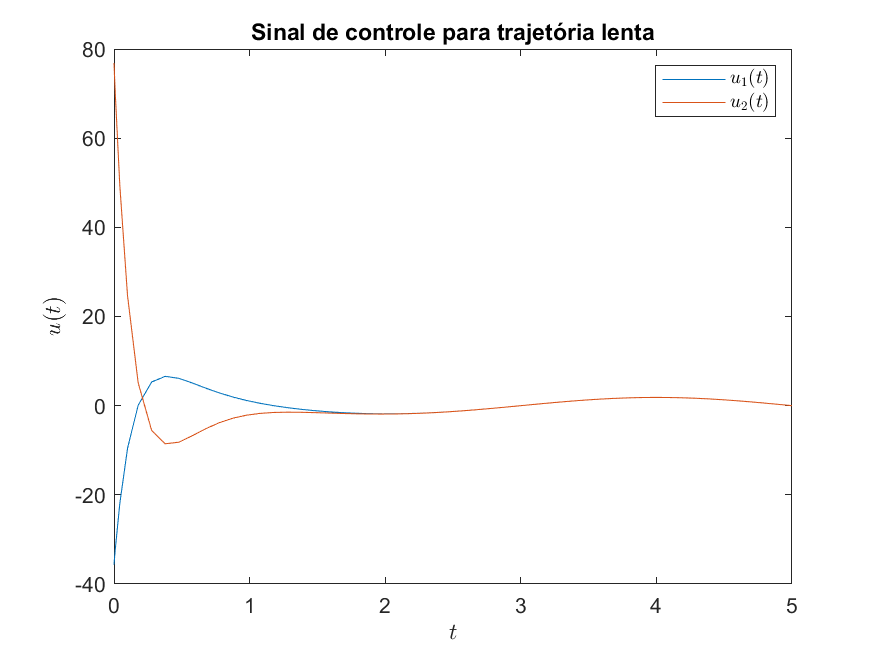
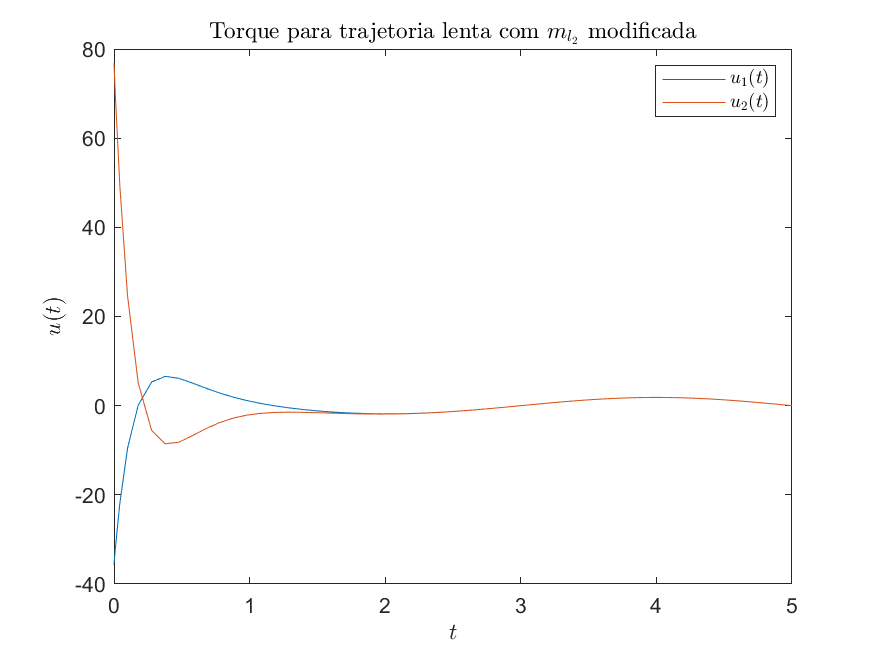
finished projeto-4

Changed region(s): [[0.2469, 0.0305, 0.8023, 0.061]]

diff --git a/projetos/projeto-4/ppi-ctrl/script_ppi.m b/projetos/projeto-4/ppi-ctrl/script_ppi.m
@@ -37,7 +37,7 @@ b22 = Il2 + ml2^2 + Kr2^2*Im2;
 
 M_ = [
     b11 0;
-    0   b22];
+    0   b22]
 
 
 
@@ -63,7 +63,7 @@ for traj_switch = 0:1
     plot(out.q)
     hold on
     plot(out.qd)
-    title("Comparação de posição para trajetória "+traj(traj_switch+1),"Interpreter","latex")
+    title("Comparacao de posicao para trajetoria "+traj(traj_switch+1),"Interpreter","latex")
     xlabel("$t$","Interpreter","latex")
     ylabel("$\theta(t)$","Interpreter","latex")
     legend({'$\theta$','$\theta_d$'},"Interpreter","latex")
@@ -73,18 +73,67 @@ for traj_switch = 0:1
     plot(out.qdot)
     hold on
     plot(out.qddot)
-    title("Comparação de velocidade para trajetória "+traj(traj_switch+1),"Interpreter","latex")
+    title("Comparacao de velocidade para trajetoria "+traj(traj_switch+1),"Interpreter","latex")
     xlabel("$t$","Interpreter","latex")
     ylabel("$\theta(t)$","Interpreter","latex")
     legend({'$\dot\theta$','$\dot\theta_d$'},"Interpreter","latex")
     saveas(gcf,"imgs/ppi_q_qd_"+traj(traj_switch+1)+".png");
 
-    % Control
+    % Torque
     figure
     plot(out.u)
-    title("Sinal de controle para trajetória "+traj(traj_switch+1),"Interpreter","latex")
+    title("Torque para trajetoria "+traj(traj_switch+1),"Interpreter","latex")
     xlabel("$t$","Interpreter","latex")
     ylabel("$u(t)$","Interpreter","latex")
     legend({'$u_1(t)$','$u_2(t)$'},"Interpreter","latex")
     saveas(gcf,"imgs/ppi_u_"+traj(traj_switch+1)+".png");
+end
+
+%% Plots mod ml2
+
+ml2 = 60; %kg
+
+% M_ matriz
+b11 = Il1 + ml1*l1^2+(Kr1^2)*Im1 + Il2 + ml2*(a1^2+l2^2) + Im2 + mm2*a1^2;
+b12 = Il2 + ml2*l2^2 + Kr2*Im2;
+b21 = b12;
+b22 = Il2 + ml2^2 + Kr2^2*Im2;
+
+M_ = [
+    b11 0;
+    0   b22]
+
+for traj_switch = 0:1
+    out = sim('ppi_ctrl.slx',5);
+
+    % Position
+    figure
+    subplot(2,1,1)
+    plot(out.q)
+    hold on
+    plot(out.qd)
+    title({"Comparacao de posicao para trajetoria "+traj(traj_switch+1)+" com $ m_{l_2} $ modificada"},"Interpreter","latex")
+    xlabel("$t$","Interpreter","latex")
+    ylabel("$\theta(t)$","Interpreter","latex")
+    legend({'$\theta$','$\theta_d$'},"Interpreter","latex")
+
+    % Velocity
+    subplot(2,1,2)
+    plot(out.qdot)
+    hold on
+    plot(out.qddot)
+    title({"Comparacao de velocidade para trajetoria "+traj(traj_switch+1)+" com $ m_{l_2} $ modificada"},"Interpreter","latex")
+    xlabel("$t$","Interpreter","latex")
+    ylabel("$\theta(t)$","Interpreter","latex")
+    legend({'$\dot\theta$','$\dot\theta_d$'},"Interpreter","latex")
+    saveas(gcf,"imgs/ppi_q_qd_"+traj(traj_switch+1)+"_mod.png");
+
+    % Torque
+    figure
+    plot(out.u)
+    title({"Torque para trajetoria "+traj(traj_switch+1)+" com $ m_{l_2} $ modificada"},"Interpreter","latex")
+    xlabel("$t$","Interpreter","latex")
+    ylabel("$u(t)$","Interpreter","latex")
+    legend({'$u_1(t)$','$u_2(t)$'},"Interpreter","latex")
+    saveas(gcf,"imgs/ppi_u_"+traj(traj_switch+1)+"_mod.png");
 end

diff --git a/projetos/projeto-4/pd-ctrl/script_pd.m b/projetos/projeto-4/pd-ctrl/script_pd.m
@@ -48,6 +48,7 @@ Kp = wn^2;
 Kd = 2*zeta*wn;
 
 %% Plots
+
 traj = ["rapida" "lenta"];
 
 for traj_switch = 0:1
@@ -59,7 +60,7 @@ for traj_switch = 0:1
     plot(out.q)
     hold on
     plot(out.qd)
-    title("Comparação de posição para trajetória "+traj(traj_switch+1),"Interpreter","latex")
+    title("Comparacao de posicao para trajetoria "+traj(traj_switch+1),"Interpreter","latex")
     xlabel("$t$","Interpreter","latex")
     ylabel("$\theta(t)$","Interpreter","latex")
     legend({'$\theta$','$\theta_d$'},"Interpreter","latex")
@@ -69,18 +70,57 @@ for traj_switch = 0:1
     plot(out.qdot)
     hold on
     plot(out.qddot)
-    title("Comparação de velocidade para trajetória "+traj(traj_switch+1),"Interpreter","latex")
+    title("Comparacao de velocidade para trajetoria "+traj(traj_switch+1),"Interpreter","latex")
     xlabel("$t$","Interpreter","latex")
     ylabel("$\theta(t)$","Interpreter","latex")
     legend({'$\dot\theta$','$\dot\theta_d$'},"Interpreter","latex")
     saveas(gcf,"imgs/pd_q_qd_"+traj(traj_switch+1)+".png");
 
-    % Control
+    % Torque
     figure
     plot(out.u)
-    title("Sinal de controle para trajetória "+traj(traj_switch+1),"Interpreter","latex")
+    title("Torque para trajetoria "+traj(traj_switch+1),"Interpreter","latex")
     xlabel("$t$","Interpreter","latex")
     ylabel("$u(t)$","Interpreter","latex")
     legend({'$u_1(t)$','$u_2(t)$'},"Interpreter","latex")
     saveas(gcf,"imgs/pd_u_"+traj(traj_switch+1)+".png");
+end
+
+%% Plots mod ml2
+
+ml2 = 60; %kg
+
+for traj_switch = 0:1
+    out = sim('pd_ctrl.slx',5);
+
+    % Position
+    figure
+    subplot(2,1,1)
+    plot(out.q)
+    hold on
+    plot(out.qd)
+    title({"Comparacao de posicao para trajetoria "+traj(traj_switch+1)+" com $ m_{l_2} $ modificada"},"Interpreter","latex")
+    xlabel("$t$","Interpreter","latex")
+    ylabel("$\theta(t)$","Interpreter","latex")
+    legend({'$\theta$','$\theta_d$'},"Interpreter","latex")
+
+    % Velocity
+    subplot(2,1,2)
+    plot(out.qdot)
+    hold on
+    plot(out.qddot)
+    title({"Comparacao de velocidade para trajetoria "+traj(traj_switch+1)+" com $ m_{l_2} $ modificada"},"Interpreter","latex")
+    xlabel("$t$","Interpreter","latex")
+    ylabel("$\theta(t)$","Interpreter","latex")
+    legend({'$\dot\theta$','$\dot\theta_d$'},"Interpreter","latex")
+    saveas(gcf,"imgs/pd_q_qd_"+traj(traj_switch+1)+"_mod.png");
+
+    % Torque
+    figure
+    plot(out.u)
+    title({"Torque para trajetoria "+traj(traj_switch+1)+" com $ m_{l_2} $ modificada"},"Interpreter","latex")
+    xlabel("$t$","Interpreter","latex")
+    ylabel("$u(t)$","Interpreter","latex")
+    legend({'$u_1(t)$','$u_2(t)$'},"Interpreter","latex")
+    saveas(gcf,"imgs/pd_u_"+traj(traj_switch+1)+"_mod.png");
 end
